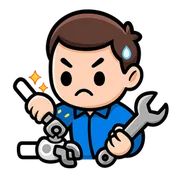
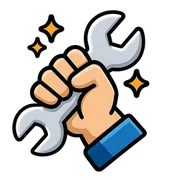
Use raised-fist wrench art for SI tile
Claude-Session: https://claude.ai/code/session_019QwctBLnb4UTXMJBnbargq

diff --git a/index.html b/index.html
@@ -1903,7 +1903,7 @@ const faceHTML = (e, who = 'suit') => FACE_ART[who][e] || FACE_ART.suit[e] || e;
 // 같은 그림이 여러 개 있어도 박자가 겹치지 않게 시작점을 흩뜨림
 // 그림을 다시 그려도 폰에 남은 옛 그림이 보이지 않게 주소에 버전을 붙임
 // 파일마다 내용이 바뀔 때만 새로 받도록 파일 해시를 붙임 (빌드할 때 채움)
-const ART_HASH = {"tile-gundam-a.png": "41a00219", "ind-school-a.png": "1b0fc977", "robot-cobot-cook-b.png": "3f739fa6", "tile-tool-a.png": "cbbc5bb1", "tile-made-a.png": "d557ba97", "ind-training-b.png": "0efc1d0b", "robot-qarm-a.png": "901f7afc", "tile-legs-b.png": "c0299b41", "tile-union-b.png": "b3a03a42", "face-cook-frown.png": "e01a4907", "face-cook-neutral.png": "71441525", "ind-battery-b.png": "6e2bd18d", "ind-fire-a.png": "a71484d3", "face-trump-neutral.png": "5aecac90", "tile-legs-a.png": "2faadad6", "face-worker-angry.png": "eb6b88ed", "ind-steel-a.png": "0f070238", "face-suitf-delight.png": "d729900f", "ind-steel-b.png": "e122612f", "ind-defense-b.png": "5aa959f1", "face-cook-angry.png": "50c65318", "ind-port-b.png": "6f5dc395", "tile-tf-a.png": "d2bc0939", "ind-factory-a.png": "909659fd", "tile-term-b.png": "fa8e5b3f", "face-neutral.png": "a9a959b5", "tile-wheel-a.png": "9e98ebac", "face-cook-smile.png": "be9219e0", "tile-korea-b.png": "ebe1008b", "face-trump-tear.png": "21d22245", "tile-auto-b.png": "bb58686e", "ind-material-b.png": "a8f27197", "tile-korea-a.png": "d1987f19", "tile-union-a.png": "d48507d4", "ind-auto-a.png": "9a8abf4f", "face-frown.png": "26865767", "robot-centaur-a.png": "a9e1e03b", "tile-auto-a.png": "e7100d25", "robot-cobot-cook-a.png": "2acb022c", "face-worker-tear.png": "940dcfc3", "ind-autoparts-b.png": "a5dbd76a", "face-suitf-angry.png": "5b24ceb5", "face-suitf-tear.png": "d0923069", "robot-centaur-b.png": "848f1932", "robot-mm-a.png": "e5da97cf", "ind-defense-a.png": "23a0651c", "robot-quad-a.png": "1e1384cf", "ind-autoparts-a.png": "26dcf7ce", "tile-eva-b.png": "b64d5546", "face-cook-tear.png": "d529800c", "tile-gundam-b.png": "69722c17", "face-trump-delight.png": "e41c1f7d", "face-angry.png": "8542c3c5", "tile-floor-b.png": "7bfb4d09", "face-suitf-smile.png": "2bfa949d", "ind-material-a.png": "2c67685e", "tile-term-a.png": "f86a988f", "tile-eva-a.png": "48055f29", "tile-hum-a.png": "cdc85433", "ind-port-a.png": "0e5340b9", "ind-police-a.png": "717025fa", "wheel-tilt-ref.png": "4a1e31a2", "robot-cobot-a.png": "bb066d5e", "face-trump-angry.png": "6fc0cf6d", "tile-wheel-b.png": "df5d2104", "face-worker-neutral.png": "f4f1ff96", "robot-amr-a.png": "21455470", "face-delight.png": "4b63238d", "face-trump-frown.png": "4102f723", "robot-mm-b.png": "41cc89c7", "ind-fire-b.png": "c530534e", "ind-police-b.png": "750b1169", "ind-ess-b.png": "c7fac005", "ind-training-a.png": "a9fe00e5", "tile-tf-b.png": "23f3efda", "ind-aircraft-a.png": "53a6b218", "ind-school-b.png": "a14af652", "tile-arm-b.png": "6cb9dab3", "face-worker-delight.png": "56fdb189", "face-worker-smile.png": "7eaefd7c", "robot-quad-b.png": "9b27fe7b", "ind-chicken-a.png": "bd4bc4e3", "face-cook-delight.png": "5ceb20b0", "ind-battery-a.png": "2ead7359", "robot-agv-b.png": "397f8942", "face-tear.png": "7cacead6", "face-suitf-neutral.png": "b29259fe", "ind-auto-b.png": "f90715bb", "ind-shipyard-a.png": "7c43481e", "tile-tool-b.png": "132dd3b4", "ind-factory-b.png": "b9dfaab4", "ind-chicken-b.png": "b4930a6b", "ind-shipyard-b.png": "098fdbae", "robot-qarm-b.png": "abd9a737", "tile-arm-a.png": "cd420a51", "tile-made-b.png": "7077aabd", "tile-floor-a.png": "14074a30", "robot-cobot-weld-a.png": "da53987b", "robot-agv-a.png": "ee67b65c", "ind-logistics-b.png": "9c5aeeca", "face-smile.png": "786eeb95", "face-worker-frown.png": "0f8d8086", "robot-cobot-weld-b.png": "a9e69108", "robot-amr-b.png": "e23a5198", "tile-hum-b.png": "01ca7c8b", "ind-ess-a.png": "83fff111", "face-suitf-frown.png": "1236f440", "ind-aircraft-b.png": "6afa5f2a", "face-trump-smile.png": "03674df8", "robot-cobot-b.png": "7ea58bc1", "ind-logistics-a.png": "b1b04f38"};
+const ART_HASH = {"tile-gundam-a.png": "41a00219", "ind-school-a.png": "1b0fc977", "robot-cobot-cook-b.png": "3f739fa6", "tile-tool-a.png": "f174149f", "tile-made-a.png": "d557ba97", "ind-training-b.png": "0efc1d0b", "robot-qarm-a.png": "901f7afc", "tile-legs-b.png": "c0299b41", "tile-union-b.png": "b3a03a42", "face-cook-frown.png": "e01a4907", "face-cook-neutral.png": "71441525", "ind-battery-b.png": "6e2bd18d", "ind-fire-a.png": "a71484d3", "face-trump-neutral.png": "5aecac90", "tile-legs-a.png": "2faadad6", "face-worker-angry.png": "eb6b88ed", "ind-steel-a.png": "0f070238", "face-suitf-delight.png": "d729900f", "ind-steel-b.png": "e122612f", "ind-defense-b.png": "5aa959f1", "face-cook-angry.png": "50c65318", "ind-port-b.png": "6f5dc395", "tile-tf-a.png": "d2bc0939", "ind-factory-a.png": "909659fd", "tile-term-b.png": "fa8e5b3f", "face-neutral.png": "a9a959b5", "tile-wheel-a.png": "9e98ebac", "face-cook-smile.png": "be9219e0", "tile-korea-b.png": "ebe1008b", "face-trump-tear.png": "21d22245", "tile-auto-b.png": "bb58686e", "ind-material-b.png": "a8f27197", "tile-korea-a.png": "d1987f19", "tile-union-a.png": "d48507d4", "ind-auto-a.png": "9a8abf4f", "face-frown.png": "26865767", "robot-centaur-a.png": "a9e1e03b", "tile-auto-a.png": "e7100d25", "robot-cobot-cook-a.png": "2acb022c", "face-worker-tear.png": "940dcfc3", "ind-autoparts-b.png": "a5dbd76a", "face-suitf-angry.png": "5b24ceb5", "face-suitf-tear.png": "d0923069", "robot-centaur-b.png": "848f1932", "robot-mm-a.png": "e5da97cf", "ind-defense-a.png": "23a0651c", "robot-quad-a.png": "1e1384cf", "ind-autoparts-a.png": "26dcf7ce", "tile-eva-b.png": "b64d5546", "face-cook-tear.png": "d529800c", "tile-gundam-b.png": "69722c17", "face-trump-delight.png": "e41c1f7d", "face-angry.png": "8542c3c5", "tile-floor-b.png": "7bfb4d09", "face-suitf-smile.png": "2bfa949d", "ind-material-a.png": "2c67685e", "tile-term-a.png": "f86a988f", "tile-eva-a.png": "48055f29", "tile-hum-a.png": "cdc85433", "ind-port-a.png": "0e5340b9", "ind-police-a.png": "717025fa", "wheel-tilt-ref.png": "4a1e31a2", "robot-cobot-a.png": "bb066d5e", "face-trump-angry.png": "6fc0cf6d", "tile-wheel-b.png": "df5d2104", "face-worker-neutral.png": "f4f1ff96", "robot-amr-a.png": "21455470", "face-delight.png": "4b63238d", "face-trump-frown.png": "4102f723", "robot-mm-b.png": "41cc89c7", "ind-fire-b.png": "c530534e", "ind-police-b.png": "750b1169", "ind-ess-b.png": "c7fac005", "ind-training-a.png": "a9fe00e5", "tile-tf-b.png": "23f3efda", "ind-aircraft-a.png": "53a6b218", "ind-school-b.png": "a14af652", "tile-arm-b.png": "6cb9dab3", "face-worker-delight.png": "56fdb189", "face-worker-smile.png": "7eaefd7c", "robot-quad-b.png": "9b27fe7b", "ind-chicken-a.png": "bd4bc4e3", "face-cook-delight.png": "5ceb20b0", "ind-battery-a.png": "2ead7359", "robot-agv-b.png": "397f8942", "face-tear.png": "7cacead6", "face-suitf-neutral.png": "b29259fe", "ind-auto-b.png": "f90715bb", "ind-shipyard-a.png": "7c43481e", "tile-tool-b.png": "c8c8a23a", "ind-factory-b.png": "b9dfaab4", "ind-chicken-b.png": "b4930a6b", "ind-shipyard-b.png": "098fdbae", "robot-qarm-b.png": "abd9a737", "tile-arm-a.png": "cd420a51", "tile-made-b.png": "7077aabd", "tile-floor-a.png": "14074a30", "robot-cobot-weld-a.png": "da53987b", "robot-agv-a.png": "ee67b65c", "ind-logistics-b.png": "9c5aeeca", "face-smile.png": "786eeb95", "face-worker-frown.png": "0f8d8086", "robot-cobot-weld-b.png": "a9e69108", "robot-amr-b.png": "e23a5198", "tile-hum-b.png": "01ca7c8b", "ind-ess-a.png": "83fff111", "face-suitf-frown.png": "1236f440", "ind-aircraft-b.png": "6afa5f2a", "face-trump-smile.png": "03674df8", "robot-cobot-b.png": "7ea58bc1", "ind-logistics-a.png": "b1b04f38"};
 // 게임에서는 가벼운 webp(assets/w/)를 씀. 파일 이름은 png와 같고 확장자만 다름
 const av = f => { const n = f.replace('assets/', ''); return `assets/w/${n.replace(/\.png$/, '.webp')}?v=${ART_HASH[n] || '0'}`; };
 // 업종 아이콘(ind-)은 a프레임만, 로봇·부품은 a·b를 번갈아 (팔이 까딱, 다리가 제자리걸음 등)
@@ -2263,7 +2263,7 @@ function banner(text, delay) {
 }
 
 // ───────── 진행 ─────────
-const BUILD_V = '1003-170714';
+const BUILD_V = '1003-170954';
 function loop(t) {
   const dt = Math.min(0.1, (t - (S.last || t)) / 1000);
   S.last = t;
